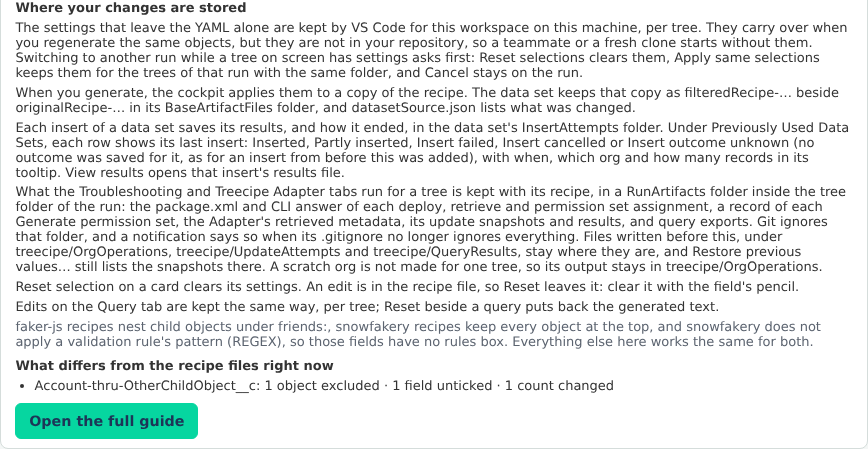
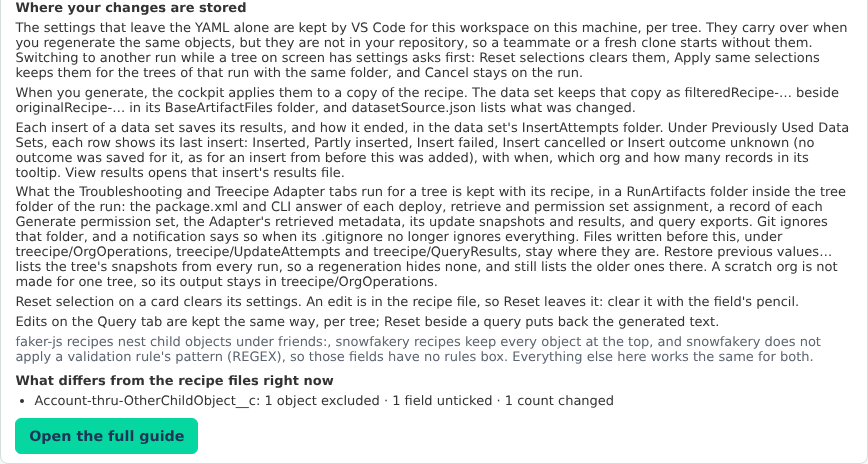
Address #475 review: restore lists snapshots from every run, cleanups
- Restore previous values… lists the tree folder's RunArtifacts/UpdateAttempts
  in every run (the run on screen first) before the pre-#470 folder, so an
  update made before a regeneration can still be restored
  (resolveTreeSnapshotLocations; listSnapshots/resolveSnapshotFilePath take
  a list of locations).
- Drop the dead ORG_OPERATIONS_FOLDER_NAME import, put two doc comments back
  above the methods they describe, and reuse RecipeCockpitQuery's
  buildCompactTimestamp in Generate permission set's record.
- Help, guide, CHANGELOG and CLAUDE.md say so; guide picture re-taken.

Claude-Session: https://claude.ai/code/session_01QDhJJJP6dUrYTXkiW5cX3B

Changed region(s): [[0.0, 0.0, 0.9954, 0.9666], [0.1555, 0.9354, 0.2177, 0.9666]]

diff --git a/src/treecipe/src/RecipeCockpitService/RecipeCockpitService.ts b/src/treecipe/src/RecipeCockpitService/RecipeCockpitService.ts
@@ -91,7 +91,7 @@ import {
 } from './RecipeCockpitTreeHistory';
 import { SfdxProjectService } from '../SfdxProjectService/SfdxProjectService';
 import { RunFakerConfirmation } from '../ExtensionCommandService/RunFakerConfirmation';
-import { IScratchOrgAliasChoice, IScratchOrgPlan, ORG_OPERATIONS_FOLDER_NAME, SCRATCH_ORG_DEPLOY_MAX_BUFFER_BYTES, ScratchOrgService, ScratchOrgSetupOutcome, ScratchOrgSetupPhase } from '../ScratchOrgService/ScratchOrgService';
+import { IScratchOrgAliasChoice, IScratchOrgPlan, SCRATCH_ORG_DEPLOY_MAX_BUFFER_BYTES, ScratchOrgService, ScratchOrgSetupOutcome, ScratchOrgSetupPhase } from '../ScratchOrgService/ScratchOrgService';
 import { INotificationCommandAction, VSCodeWorkspaceService } from '../VSCodeWorkspace/VSCodeWorkspaceService';
 import {
     RECIPE_COCKPIT_QUERY_EXPORT_FORMATS,
@@ -612,7 +612,7 @@ export const RECIPE_COCKPIT_HELP_SECTIONS: readonly IRecipeCockpitHelpSection[] 
             'The settings that leave the YAML alone are kept by VS Code for this workspace on this machine, per tree. They carry over when you regenerate the same objects, but they are not in your repository, so a teammate or a fresh clone starts without them. Switching to another run while a tree on screen has settings asks first: Reset selections clears them, Apply same selections keeps them for the trees of that run with the same folder, and Cancel stays on the run.',
             'When you generate, the cockpit applies them to a copy of the recipe. The data set keeps that copy as filteredRecipe-… beside originalRecipe-… in its BaseArtifactFiles folder, and datasetSource.json lists what was changed.',
             'Each insert of a data set saves its results, and how it ended, in the data set\'s InsertAttempts folder. Under Previously Used Data Sets, each row shows its last insert: Inserted, Partly inserted, Insert failed, Insert cancelled or Insert outcome unknown (no outcome was saved for it, as for an insert from before this was added), with when, which org and how many records in its tooltip. View results opens that insert\'s results file.',
-            'What the Troubleshooting and Treecipe Adapter tabs run for a tree is kept with its recipe, in a RunArtifacts folder inside the tree folder of the run: the package.xml and CLI answer of each deploy, retrieve and permission set assignment, a record of each Generate permission set, the Adapter\'s retrieved metadata, its update snapshots and results, and query exports. Git ignores that folder, and a notification says so when its .gitignore no longer ignores everything. Files written before this, under treecipe/OrgOperations, treecipe/UpdateAttempts and treecipe/QueryResults, stay where they are, and Restore previous values… still lists the snapshots there. A scratch org is not made for one tree, so its output stays in treecipe/OrgOperations.',
+            'What the Troubleshooting and Treecipe Adapter tabs run for a tree is kept with its recipe, in a RunArtifacts folder inside the tree folder of the run: the package.xml and CLI answer of each deploy, retrieve and permission set assignment, a record of each Generate permission set, the Adapter\'s retrieved metadata, its update snapshots and results, and query exports. Git ignores that folder, and a notification says so when its .gitignore no longer ignores everything. Files written before this, under treecipe/OrgOperations, treecipe/UpdateAttempts and treecipe/QueryResults, stay where they are. Restore previous values… lists the tree\'s snapshots from every run, so a regeneration hides none, and still lists the older ones there. A scratch org is not made for one tree, so its output stays in treecipe/OrgOperations.',
             'Reset selection on a card clears its settings. An edit is in the recipe file, so Reset leaves it: clear it with the field\'s pencil.',
             'Edits on the Query tab are kept the same way, per tree; Reset beside a query puts back the generated text.'
         ]
@@ -9864,7 +9864,6 @@ export class RecipeCockpitService {
 
     }
 
-    // THE BACKEND A CARD'S RECIPE WAS WRITTEN FOR, FROM ITS PATH, OR UNDEFINED WHEN IT HAS NO SINGLE RECIPE OR THE PATH DOES NOT SAY
     /*
         Where a tree's run files go (#470): GeneratedRecipes/<run on screen>/<tree folder>/RunArtifacts.
         Undefined for a card with no folder, or one whose folder is not a real folder inside the
@@ -9883,6 +9882,24 @@ export class RecipeCockpitService {
 
     }
 
+    /*
+        Where a tree's update snapshots are listed from (#470): its RunArtifacts in the run on
+        screen first, then in every other run that has the tree's folder, newest first, so an
+        update made before a regeneration can still be restored from the run drawn now.
+    */
+    static resolveTreeSnapshotLocations(workspaceRoot: string,
+                                        recipeViewModel: Pick<IRecipeCockpitRecipeViewModel, 'selectedRunFolderName' | 'runs'>,
+                                        tree: Pick<IRecipeCockpitTreeViewModel, 'folderName'>): IRecipeCockpitRunArtifactsLocation[] {
+
+        const runFolderNames = [...new Set([recipeViewModel.selectedRunFolderName, ...recipeViewModel.runs.map(run => run.runFolderName)])];
+
+        return runFolderNames
+            .map(runFolderName => this.resolveTreeRunArtifactsLocation(workspaceRoot, { selectedRunFolderName: runFolderName }, tree))
+            .filter((location): location is IRecipeCockpitRunArtifactsLocation => location !== undefined);
+
+    }
+
+    // THE BACKEND A CARD'S RECIPE WAS WRITTEN FOR, FROM ITS PATH, OR UNDEFINED WHEN IT HAS NO SINGLE RECIPE OR THE PATH DOES NOT SAY
     private static readTreeFakerService(panelState: IRecipeCockpitPanelState, treeKey: string): 'faker-js' | 'snowfakery' | undefined {
 
         const recipeFilePath = panelState.treeHistoryTargets.runFakerRecipeFilePathsByTreeKey.get(treeKey);
@@ -11915,11 +11932,11 @@ export class RecipeCockpitService {
             return;
         }
 
-        const runArtifactsLocation = this.resolveTreeRunArtifactsLocation(panelState.workspaceRoot, recipeDataMessage.recipe, tree);
-        const snapshotList = RecipeCockpitRecordUpdate.listSnapshots(panelState.workspaceRoot, tree.folderName, runArtifactsLocation);
+        const snapshotLocations = this.resolveTreeSnapshotLocations(panelState.workspaceRoot, recipeDataMessage.recipe, tree);
+        const snapshotList = RecipeCockpitRecordUpdate.listSnapshots(panelState.workspaceRoot, tree.folderName, snapshotLocations);
         const snapshotPathsByName = new Map<string, string>();
         snapshotList.snapshotFileNames.forEach(snapshotFileName => {
-            const snapshotFilePath = RecipeCockpitRecordUpdate.resolveSnapshotFilePath(panelState.workspaceRoot, tree.folderName as string, snapshotFileName, runArtifactsLocation);
+            const snapshotFilePath = RecipeCockpitRecordUpdate.resolveSnapshotFilePath(panelState.workspaceRoot, tree.folderName as string, snapshotFileName, snapshotLocations);
             if ( snapshotFilePath ) {
                 snapshotPathsByName.set(snapshotFileName, snapshotFilePath);
             }
@@ -12019,7 +12036,7 @@ export class RecipeCockpitService {
         // RESOLVED AGAIN, NOT TAKEN FROM THE LIST: IT MAY HAVE GONE, OR BECOME A LINK, SINCE IT WAS LISTED
         const listedSnapshotPath = panelState.restorableSnapshots.get(treeKey)?.get(snapshotName);
         const snapshotFilePath = RecipeCockpitRecordUpdate.resolveSnapshotFilePath(panelState.workspaceRoot, tree.folderName, snapshotName,
-                                                                                    this.resolveTreeRunArtifactsLocation(panelState.workspaceRoot, clickedRecipeDataMessage.recipe, tree));
+                                                                                    this.resolveTreeSnapshotLocations(panelState.workspaceRoot, clickedRecipeDataMessage.recipe, tree));
         if ( !listedSnapshotPath || snapshotFilePath !== listedSnapshotPath ) {
             return refuse(`Nothing was restored: ${snapshotName} is no longer where it was listed from.`);
         }
@@ -13828,11 +13845,6 @@ export class RecipeCockpitService {
     }
 
     /*
-        Every outcome but a success is a WARNING, and its only follow-up is the notification's own
-        "View output" button when the CLI left a result file. NOT AWAITED: the run ends, and gives the
-        panel its button back, without waiting for the reader to dismiss it.
-    */
-    /*
         A run file written into a tree's RunArtifacts folder whose .gitignore no longer ignores
         everything (#470) is said in the notification, which is then at least a warning, as the
         Query and Adapter flows say it.
@@ -13847,6 +13859,11 @@ export class RecipeCockpitService {
 
     }
 
+    /*
+        Every outcome but a success is a WARNING, and its only follow-up is the notification's own
+        "View output" button when the CLI left a result file. NOT AWAITED: the run ends, and gives the
+        panel its button back, without waiting for the reader to dismiss it.
+    */
     private static showPermissionSetNotification(notificationText: string, outputFilePath: string | undefined, workspaceRoot: string) {
 
         const actions = outputFilePath ? [RECIPE_COCKPIT_PERMISSION_SET_VIEW_OUTPUT_LABEL] : [];

diff --git a/src/treecipe/src/RecipeCockpitService/tests/RecipeCockpitUpdaterRestore.test.ts b/src/treecipe/src/RecipeCockpitService/tests/RecipeCockpitUpdaterRestore.test.ts
@@ -217,12 +217,12 @@ describe('RecipeCockpitService, the Treecipe Adapter\'s restore (#419)', () => {
             fs.writeFileSync(path.join(newFolderPath, '20261023-100000-before.json'), '{}');
             fs.writeFileSync(path.join(newFolderPath, '20261024-090000-before.json'), '{}');
 
-            expect(RecipeCockpitRecordUpdate.listSnapshots(temporaryRoot, ACCOUNT_TREE_KEY, location)).toEqual({
+            expect(RecipeCockpitRecordUpdate.listSnapshots(temporaryRoot, ACCOUNT_TREE_KEY, [location])).toEqual({
                 snapshotFileNames: ['20261024-090000-before.json', '20261023-100000-before.json', '20261022-090000-before.json'],
                 hiddenSnapshotCount: 0
             });
-            expect(RecipeCockpitRecordUpdate.resolveSnapshotFilePath(temporaryRoot, ACCOUNT_TREE_KEY, '20261024-090000-before.json', location)).toBe(path.join(newFolderPath, '20261024-090000-before.json'));
-            expect(RecipeCockpitRecordUpdate.resolveSnapshotFilePath(temporaryRoot, ACCOUNT_TREE_KEY, '20261022-090000-before.json', location)).toBe(path.join(treeFolderPath, '20261022-090000-before.json'));
+            expect(RecipeCockpitRecordUpdate.resolveSnapshotFilePath(temporaryRoot, ACCOUNT_TREE_KEY, '20261024-090000-before.json', [location])).toBe(path.join(newFolderPath, '20261024-090000-before.json'));
+            expect(RecipeCockpitRecordUpdate.resolveSnapshotFilePath(temporaryRoot, ACCOUNT_TREE_KEY, '20261022-090000-before.json', [location])).toBe(path.join(treeFolderPath, '20261022-090000-before.json'));
             // WITHOUT THE LOCATION ONLY THE OLD FOLDER IS READ
             expect(RecipeCockpitRecordUpdate.listSnapshots(temporaryRoot, ACCOUNT_TREE_KEY).snapshotFileNames).toEqual(['20261024-090000-before.json', '20261022-090000-before.json']);
 
@@ -234,7 +234,7 @@ describe('RecipeCockpitService, the Treecipe Adapter\'s restore (#419)', () => {
                 }
                 return (realReaddirSync as any)(folderPath, options);
             }) as any);
-            expect(RecipeCockpitRecordUpdate.listSnapshots(temporaryRoot, ACCOUNT_TREE_KEY, location).snapshotFileNames).toEqual(['20261024-090000-before.json', '20261022-090000-before.json']);
+            expect(RecipeCockpitRecordUpdate.listSnapshots(temporaryRoot, ACCOUNT_TREE_KEY, [location]).snapshotFileNames).toEqual(['20261024-090000-before.json', '20261022-090000-before.json']);
             readdirSpy.mockRestore();
 
             // A RunArtifacts/UpdateAttempts THAT IS A LINK IS NOT READ
@@ -243,11 +243,35 @@ describe('RecipeCockpitService, the Treecipe Adapter\'s restore (#419)', () => {
             try {
                 fs.writeFileSync(path.join(outsideFolderPath, '20261025-090000-before.json'), '{}');
                 fs.symlinkSync(outsideFolderPath, newFolderPath);
-                expect(RecipeCockpitRecordUpdate.listSnapshots(temporaryRoot, ACCOUNT_TREE_KEY, location).snapshotFileNames).toEqual(['20261024-090000-before.json', '20261022-090000-before.json']);
-                expect(RecipeCockpitRecordUpdate.resolveSnapshotFilePath(temporaryRoot, ACCOUNT_TREE_KEY, '20261025-090000-before.json', location)).toBeUndefined();
+                expect(RecipeCockpitRecordUpdate.listSnapshots(temporaryRoot, ACCOUNT_TREE_KEY, [location]).snapshotFileNames).toEqual(['20261024-090000-before.json', '20261022-090000-before.json']);
+                expect(RecipeCockpitRecordUpdate.resolveSnapshotFilePath(temporaryRoot, ACCOUNT_TREE_KEY, '20261025-090000-before.json', [location])).toBeUndefined();
             } finally {
                 fs.rmSync(outsideFolderPath, { recursive: true, force: true });
             }
+
+        });
+
+        it('lists the snapshots of the tree\'s folder in every run, the run on screen first, so a regeneration does not hide an update\'s snapshot', () => {
+
+            const currentLocation = makeTreeRunArtifactsLocation(temporaryRoot, 'recipe-2026-09-20T10-00-00', ACCOUNT_TREE_KEY);
+            const earlierLocation = makeTreeRunArtifactsLocation(temporaryRoot, 'recipe-2026-09-01T00-00-00', ACCOUNT_TREE_KEY);
+            [[currentLocation, '20261023-100000-before.json'], [earlierLocation, '20261024-100000-before.json'], [earlierLocation, '20261023-100000-before.json']].forEach(([location, fileName]: any) => {
+                fs.mkdirSync(path.join(location.folderPath, RECIPE_COCKPIT_UPDATE_ATTEMPTS_FOLDER_NAME), { recursive: true });
+                fs.writeFileSync(path.join(location.folderPath, RECIPE_COCKPIT_UPDATE_ATTEMPTS_FOLDER_NAME, fileName), '{}');
+            });
+
+            const locations = RecipeCockpitService.resolveTreeSnapshotLocations(temporaryRoot, {
+                selectedRunFolderName: 'recipe-2026-09-20T10-00-00',
+                runs: [{ runFolderName: 'recipe-2026-09-20T10-00-00', label: '' }, { runFolderName: 'recipe-2026-09-01T00-00-00', label: '' }, { runFolderName: 'recipe-with-no-such-tree', label: '' }]
+            }, { folderName: ACCOUNT_TREE_KEY });
+
+            expect(locations).toEqual([currentLocation, earlierLocation]);
+            expect(RecipeCockpitRecordUpdate.listSnapshots(temporaryRoot, ACCOUNT_TREE_KEY, locations).snapshotFileNames).toEqual(['20261024-100000-before.json', '20261023-100000-before.json']);
+            // A NAME TWO RUNS HOLD IS THE RUN ON SCREEN'S
+            expect(RecipeCockpitRecordUpdate.resolveSnapshotFilePath(temporaryRoot, ACCOUNT_TREE_KEY, '20261023-100000-before.json', locations))
+                .toBe(path.join(currentLocation.folderPath, RECIPE_COCKPIT_UPDATE_ATTEMPTS_FOLDER_NAME, '20261023-100000-before.json'));
+            expect(RecipeCockpitRecordUpdate.resolveSnapshotFilePath(temporaryRoot, ACCOUNT_TREE_KEY, '20261024-100000-before.json', locations))
+                .toBe(path.join(earlierLocation.folderPath, RECIPE_COCKPIT_UPDATE_ATTEMPTS_FOLDER_NAME, '20261024-100000-before.json'));
 
         });
 

diff --git a/src/treecipe/src/RecipeCockpitService/RecipeCockpitRecordUpdate.ts b/src/treecipe/src/RecipeCockpitService/RecipeCockpitRecordUpdate.ts
@@ -330,16 +330,18 @@ export class RecipeCockpitRecordUpdate {
 
     /*
         The tree's snapshots (#419), newest first: the files whose names writeSnapshot writes, each a
-        file and never a link, in the tree's RunArtifacts/UpdateAttempts (#470) and in the folder
-        snapshots were written to before it, treecipe/UpdateAttempts/<tree folder>/. A name both
-        hold is listed once, and resolveSnapshotFilePath answers the newer folder's file. A folder
-        name that is not plain, or a folder outside the workspace, lists nothing.
+        file and never a link, in the RunArtifacts/UpdateAttempts of each location given (#470: the
+        tree folder of every run, the run on screen first, so a regeneration does not hide an
+        update's snapshot) and in the folder snapshots were written to before it,
+        treecipe/UpdateAttempts/<tree folder>/. A name more than one holds is listed once, and
+        resolveSnapshotFilePath answers the first folder's file. A folder name that is not plain,
+        or a folder outside the workspace, lists nothing.
     */
-    static listSnapshots(workspaceRoot: string, treeFolderName: string, runArtifactsLocation?: IRecipeCockpitRunArtifactsLocation): IUpdateSnapshotList {
+    static listSnapshots(workspaceRoot: string, treeFolderName: string, runArtifactsLocations: readonly IRecipeCockpitRunArtifactsLocation[] = []): IUpdateSnapshotList {
 
         const snapshotsByFileName = new Map<string, { fileName: string; timestamp: string; attempt: number }>();
 
-        this.resolveSnapshotFolderPaths(workspaceRoot, treeFolderName, runArtifactsLocation).forEach(snapshotFolderPath => {
+        this.resolveSnapshotFolderPaths(workspaceRoot, treeFolderName, runArtifactsLocations).forEach(snapshotFolderPath => {
             let directoryEntries: fs.Dirent[];
             try {
                 directoryEntries = fs.readdirSync(snapshotFolderPath, { withFileTypes: true });
@@ -368,13 +370,13 @@ export class RecipeCockpitRecordUpdate {
     }
 
     // WHERE A LISTED SNAPSHOT IS, CHECKED AGAIN WHEN IT IS READ: A NAME writeSnapshot WRITES, A FILE AND NOT A LINK, INSIDE THE WORKSPACE
-    static resolveSnapshotFilePath(workspaceRoot: string, treeFolderName: string, snapshotFileName: string, runArtifactsLocation?: IRecipeCockpitRunArtifactsLocation): string | undefined {
+    static resolveSnapshotFilePath(workspaceRoot: string, treeFolderName: string, snapshotFileName: string, runArtifactsLocations: readonly IRecipeCockpitRunArtifactsLocation[] = []): string | undefined {
 
         if ( !SNAPSHOT_FILE_NAME_PATTERN.test(snapshotFileName) ) {
             return undefined;
         }
 
-        for ( const snapshotFolderPath of this.resolveSnapshotFolderPaths(workspaceRoot, treeFolderName, runArtifactsLocation) ) {
+        for ( const snapshotFolderPath of this.resolveSnapshotFolderPaths(workspaceRoot, treeFolderName, runArtifactsLocations) ) {
             const snapshotFilePath = path.join(snapshotFolderPath, snapshotFileName);
             try {
                 if ( !fs.lstatSync(snapshotFilePath).isFile() ) {
@@ -392,8 +394,8 @@ export class RecipeCockpitRecordUpdate {
 
     }
 
-    // THE TREE'S RunArtifacts/UpdateAttempts FIRST, THEN THE FOLDER USED BEFORE #470; ONLY FOLDERS THAT EXIST, ARE NOT LINKS AND ARE INSIDE THE WORKSPACE
-    private static resolveSnapshotFolderPaths(workspaceRoot: string, treeFolderName: string, runArtifactsLocation?: IRecipeCockpitRunArtifactsLocation): string[] {
+    // EACH LOCATION'S RunArtifacts/UpdateAttempts IN ORDER, THEN THE FOLDER USED BEFORE #470; ONLY FOLDERS THAT EXIST, ARE NOT LINKS AND ARE INSIDE THE WORKSPACE
+    private static resolveSnapshotFolderPaths(workspaceRoot: string, treeFolderName: string, runArtifactsLocations: readonly IRecipeCockpitRunArtifactsLocation[]): string[] {
 
         if ( !FOLDER_NAME_PATTERN.test(treeFolderName) || WINDOWS_RESERVED_FOLDER_NAME_PATTERN.test(treeFolderName) ) {
             return [];
@@ -401,7 +403,7 @@ export class RecipeCockpitRecordUpdate {
 
         const resolvedWorkspaceRoot = path.resolve(workspaceRoot);
         const candidateFolderPaths = [
-            ...( runArtifactsLocation ? [RecipeCockpitRunArtifacts.buildKindFolderPath(runArtifactsLocation, 'UpdateAttempts')] : [] ),
+            ...runArtifactsLocations.map(runArtifactsLocation => RecipeCockpitRunArtifacts.buildKindFolderPath(runArtifactsLocation, 'UpdateAttempts')),
             path.join(resolvedWorkspaceRoot, 'treecipe', RECIPE_COCKPIT_UPDATE_ATTEMPTS_FOLDER_NAME, treeFolderName)
         ];
 

diff --git a/src/treecipe/src/RecipeCockpitService/RecipeCockpitPermissionSetGenerate.ts b/src/treecipe/src/RecipeCockpitService/RecipeCockpitPermissionSetGenerate.ts
@@ -5,6 +5,7 @@ import * as xml2js from 'xml2js';
 import { SalesforceApiName } from '../RecipeService/SalesforceApiName';
 import { ISfdxPackageDirectory, SfdxProjectService } from '../SfdxProjectService/SfdxProjectService';
 import { PERMISSION_SET_FILE_SUFFIX } from './RecipeCockpitPermissionSetAssign';
+import { RecipeCockpitQuery } from './RecipeCockpitQuery';
 import { IRecipeCockpitRunArtifactsLocation, RecipeCockpitRunArtifacts } from './RecipeCockpitRunArtifacts';
 
 /*
@@ -95,14 +96,6 @@ const PERMISSION_SET_GENERATE_RESULT_FILE_ATTEMPTS = 100;
 
 export class RecipeCockpitPermissionSetGenerate {
 
-    static buildCompactTimestamp(date: Date): string {
-
-        const twoDigits = (value: number) => String(value).padStart(2, '0');
-
-        return `${date.getFullYear()}${twoDigits(date.getMonth() + 1)}${twoDigits(date.getDate())}-${twoDigits(date.getHours())}${twoDigits(date.getMinutes())}${twoDigits(date.getSeconds())}`;
-
-    }
-
     /*
         <tree folder>/RunArtifacts/PermissionSets/<yyyyMMdd-HHmmss>-permission-set-generate.json:
         what was written, so the tree's run files say it. "wx", the first free of <name>, <name>-2,
@@ -118,7 +111,7 @@ export class RecipeCockpitPermissionSetGenerate {
         }
 
         return RecipeCockpitRunArtifacts.writeNewFile(
-            path.join(resultFolderPath, `${this.buildCompactTimestamp(date)}-${result.operation}.json`),
+            path.join(resultFolderPath, `${RecipeCockpitQuery.buildCompactTimestamp(date)}-${result.operation}.json`),
             `${JSON.stringify(result, null, 2)}\n`,
             '.json',
             PERMISSION_SET_GENERATE_RESULT_FILE_ATTEMPTS

diff --git a/CLAUDE.md b/CLAUDE.md
@@ -329,7 +329,7 @@ User runs command (Cmd+Shift+P)
 - **An update that lands leaves an adapted DATA SET and an adapted RECIPE, and the recipe is a SIDE FILE** (#448, its update half; the child insert of #447's E2 is not built, so `addedObjectApiNames` and `insertedRecordIdsByObject` are always empty) — after `sendUpdaterRequests`, `writeAdaptedRunAfterUpdate` writes nothing when no record was updated or `putBack` is set; otherwise `RecipeCockpitAdaptedDataset.writeAdaptedRun` writes `FakeDataSets/<tree folder>-adapted-<yyyyMMdd-HHmmss>` (UTC, first free `-<n>`) with EVERY loaded record, the org-saved ones carrying their new values, as Collections API files whose `referenceId` ends in `__<Id>` (so the insert's whole-string nickname swap re-points a lookup to a record of the copy) and `datasetSource.json` of `origin: 'adapt'` with an `adaptation` (parent, its WHERE, org username, updated fields with `isOrgOnly`, added objects, inserted Ids, `adaptedRecipeFileName`), type-checked whole by `DatasetSourceService.isAdaptation` (anything out of shape, or an `adaptation` on another origin, is `unreadable`). `parseDatasetFolderName` gives an adapted name's timestamp in the `YYYY-MM-DDTHH-MM-SS` form and `fakerService: null`, so `groupTreeHistories` reads the backend from the source and sets `isAdapted` (the row's `adapted` label). The held records carry `parentObjectApiName` and `whereClausesByObjectApiName`, the held values `adaptedRecipeFields`: each field's scalar as `toFixedValueScalar` writes it and `isRecipeValue` for a value that came from the recipe (`recipe`, `recipeEdit`, `recipeFixed`). `RecipeCockpitRecipeWriter.buildAdaptedRecipe` marks `# ADAPTED <yyyy-MM-dd> -- <org label>` (`buildAdaptedComment` keeps `[A-Za-z0-9._@+-]`) on every occurrence: a recipe value whose line closes its value or opens a block scalar keeps its lines and is marked at the end of the field line; anything else becomes one line of its scalar; an org-only field is inserted at the end of each fields: block; the result is scanned back. The file `<recipe>-adapted-<ts>.yml` is written `wx` beside the recipe, which is only read, and `isAdaptedRecipeFileName` keeps it out of `collectRecipeFilePaths` and `findTreeRecipeFilePath`, so it never becomes the card's recipe or doubles its objects; Run Faker by Recipe's picker still lists it. The update's ONE notification adds **Open adapted recipe** and **Open data set**, and the data set is added in place (#226)
 - **"Remove TODO" takes ONE TODO comment out of the recipe FILE, and "Restore" puts back exactly that line** (#391) — the TODO's sub-tab holds an **Open** list (the TODOs `scanRecipeObjects` still finds) and a **Removed** one (what `<recipe>.removedTodos.json` holds that is not back in the recipe), each with its own search (`troubleshooting.todos` and `troubleshooting.todosRemoved`), the place's optional `todosView` (only `'removed'`) and `removedTodosSearchText`. Each row's first line is the field (bold, accent; `on the object` muted), its `↗ yml` link and its button; the text is under them. `RecipeCockpitRecipeWriter.removeTodoComment` deletes a whole-line TODO (the line before a last line without a newline gives up its ending instead) or cuts a trailing one off its value (`trimEnd`), refuses a line whose TODO text is not the one the panel drew, and re-scans: `describeTodoStructure` must read as one TODO fewer on the same occurrence (and, for a whole line, one line fewer on its field), else `todo-structure-changed`. It records the owner by object, nickname (only when the occurrence's is distinct; an object written twice without one is `indistinct-todo-occurrence`) and field, and for a whole line `previousLine` (the nearest line above that is not a whole TODO line), `previousTodoLines`, `nextTodoLines` and `lineEnding`; `restoreTodoComment(text, removed, otherRemoved)` finds the anchor in the owner's span (at its old place, else the only match), passes TODO lines until one the records say was BELOW it (whichever of two side-by-side TODOs was removed first saw the other, so the pair is ordered whatever order they are restored in), and re-scans the same way. `findTodoRemoveLock` is the one rule for what stays: `field-value` (the TODO is a field line's whole value, which would load as null), `record-type-options` (`### TODO: -- RecordType Options --`, read by `hasRecordTypeSections`, record type selection detection and Run Faker's pre-3.29.1 check), `commented-out-marker` and `scalar-content` (a continuation line of a field whose value is a `|`/`>` block or an unclosed quote, `isFieldValueClosedOnFirstLine`, where `#` is value text; `restoreTodoComment` refuses to put a line there too, since a crafted sidecar could otherwise hide a `${{ }}` in a value). The load hands it the field its pass is on and a `Set` of marker lines, so it never searches an occurrence's fields per TODO; `parseRecipeSource` sets `removeLock` (plus `indistinct-occurrence`) on a TODO ONLY when one holds, so a recipe without one posts as before. The panel posts `removeTodo {treeKey, lineNumber}` and `restoreTodo {treeKey, removalKey}`, matched against `removableTodoKeys` / `restorableTodoKeys` in `IRecipeCockpitTreeHistoryAllowLists` (built by `collectTreeHistoryAllowLists` with the cards' recipe paths: only a TODO of the card's own recipe file, no lock); the text is the host's (`listTreeTodos`/`readTodoText`, the panel's `readFieldTodoText` copied) and a `removalKey` is an index into the host-only `removedTodosByTreeKey`. Both run in `runRecipeLookupWrite` (the one recipe write lock, its new `reloadFocus` onto `troubleshooting`/`todos`/`todosView`), ask through `confirmInPanel`, plan again after the answer, write the sidecar FIRST through `writeRecipeWithSidecarFile` (put back when the recipe write throws; never through a link, outside the workspace or over a file that does not parse), and every refusal is a warning. Most generated TODOs are locked; Remove is for a validation rule not applied, a record type block note and the reader's own
 - **A data set row's insert status comes from the insert's own SUMMARY, never from its results file** (#469) — `upsertDataSetToSelectedOrg` writes `insertAttemptSummary-<ts>.json` (`DatasetInsertAttemptService.buildSummary`/`writeSummary`, `wx`, never throws) beside `insertAttemptResults-<ts>.json` when every insert ends, with the org from `IDataSetInsertOptions.orgUsername`/`orgAlias` (both callers pass them). The results file cannot say how an insert ended: a cancel and an all-or-none rollback leave the deleted records under `SuccessResults`. `readLatestAttempt` takes the newest `insertAttempt-<ts>` folder (timestamps sort as text), follows no link, parses the summary as untrusted (`parseSummary`: every field, else undefined), and `readStatus` reads cancelled → `cancelled`, rolled back → `failed`, stopped or any failure → `partial` if records were kept else `failed`, else `succeeded`. An insert that throws (a failed rollback) still writes one, `isInterrupted`, which reads `partial`/`failed`, never finished. No summary is `unknown` with `isOutcomeUnrecorded`; a summary out of shape is `unknown`; neither is ever counted from the results file (it cannot say what a rollback deleted, and reading it per data set cost ~0.7 s per 500). The summary is read through one `O_NOFOLLOW` handle, 64 KB at most, and an org name with a control or bidi character is refused. `RecipeCockpitTreeHistory.readLastInserts` feeds `groupTreeHistories` (the one placing rule, so a reload and `buildAddedDataset` agree) and sets `lastInsert` on a row ONLY when there is an attempt, so a data set never inserted posts as before; the results path is kept host-only in `insertResultsFilePathsByDatasetFolderName` only while contained. The panel draws `treeDatasetInsertStatus` (an `aria-hidden` emoji from `RECIPE_COCKPIT_DATASET_INSERT_STATUS_DISPLAY`, the label in words, a tooltip of when/where/how many, chip colours the contrast test holds) and **View results** (`viewDatasetInsertResults {datasetFolderName}`, matched against `viewableInsertResultsDatasetFolderNames` in `IRecipeCockpitTreeHistoryAllowLists`, opened through `VSCodeWorkspaceService.openWorkspaceResultFile`, which re-checks existence and containment). A row's own Insert… is followed by `postDatasetLastInsert`, which re-reads that data set and posts `datasetLastInsert` in place: the name leaves the ACTIVE allow-list and is added to a cloned PENDING one, promoted by the existing `partialRendered`/`datasetUpdateSequence` ack
-- **A tree's run files live with its recipe, in `GeneratedRecipes/<run>/<tree folder>/RunArtifacts/`, and nothing reads them as a recipe** (#470, a decision on the issue: under the RUN folder, so the files of one run stay with the recipe they were made with and a regeneration starts a new folder, the way a data set records its run) — `RecipeCockpitRunArtifacts` (no vscode) is the one rule: `resolveTreeLocation` (run and tree plain names, both real folders and not links, inside the workspace) and `RecipeCockpitService.resolveTreeRunArtifactsLocation` (the run ON SCREEN and the card's folder; a card with no folder gets none and its writer writes nothing). The tree-scoped writers take that location, never a workspace root: the Troubleshooting deploys and their package.xml, the four retrieves, the permission set assign (`RunArtifacts/OrgOperations/<username>/`, through `ScratchOrgService.writeOrgOperationResult`'s optional location), Generate permission set's record (`RunArtifacts/PermissionSets/<ts>-permission-set-generate.json`, `RecipeCockpitPermissionSetGenerate.writeGenerateResult`; a failed write changes nothing it reports), the Adapter's retrieve staging (`RunArtifacts/OrgOperations/<username>/<ts>-adapter-retrieve[-n]`, still under `treecipe/` so `toOutputDirectoryArgument` accepts it), update snapshots and results (`RunArtifacts/UpdateAttempts/`) and query exports (`RunArtifacts/QueryResults/`). Runs tied to no tree stay in `treecipe/OrgOperations` (scratch org creation; org open writes nothing), and files written before #470 stay where they were: no migration. `makeFolder` makes each segment from the tree folder down one at a time (`mkdirSync` without `recursive`), refuses one that is there and not a real folder (a link to a folder INSIDE the workspace included), writes `RunArtifacts/.gitignore` of `*` with `wx`, and holds the path to the workspace before and after; every file is `wx` with a `-<n>` suffix (`writeNewFile`). `.gitignore` is read back, never trusted (`isFolderWhollyGitIgnored`, the rule the Query tab used): a deploy, retrieve, assign, update, restore, export or generate whose file sits under a RunArtifacts folder that does not ignore everything adds `RECIPE_COCKPIT_RUN_ARTIFACTS_NOT_GIT_IGNORED_NOTE` (`isRunFileExposedToGit`, `withRunArtifactsGitIgnoreNote`) and is at least a warning. **Restore previous values…** lists both folders (`listSnapshots`/`resolveSnapshotFilePath` with the location: RunArtifacts first, then `treecipe/UpdateAttempts/<folder>/`; a name both hold is listed once and resolves to RunArtifacts). Recipe discovery never reads the folder: `collectRecipeFilePaths` reads two levels and `findTreeRecipeFilePath` the tree folder's own files, so neither reaches it; Run Faker by Recipe's picker skips a directory named `RunArtifacts` (`isRunArtifactsFolderName`), and `findRecipeFilePathRefusal` refuses a recipe path with that segment under GeneratedRecipes. A test helper, `tests/RecipeCockpitRunArtifactsFixture.ts`, builds a location for a suite
+- **A tree's run files live with its recipe, in `GeneratedRecipes/<run>/<tree folder>/RunArtifacts/`, and nothing reads them as a recipe** (#470, a decision on the issue: under the RUN folder, so the files of one run stay with the recipe they were made with and a regeneration starts a new folder, the way a data set records its run) — `RecipeCockpitRunArtifacts` (no vscode) is the one rule: `resolveTreeLocation` (run and tree plain names, both real folders and not links, inside the workspace) and `RecipeCockpitService.resolveTreeRunArtifactsLocation` (the run ON SCREEN and the card's folder; a card with no folder gets none and its writer writes nothing). The tree-scoped writers take that location, never a workspace root: the Troubleshooting deploys and their package.xml, the four retrieves, the permission set assign (`RunArtifacts/OrgOperations/<username>/`, through `ScratchOrgService.writeOrgOperationResult`'s optional location), Generate permission set's record (`RunArtifacts/PermissionSets/<ts>-permission-set-generate.json`, `RecipeCockpitPermissionSetGenerate.writeGenerateResult`; a failed write changes nothing it reports), the Adapter's retrieve staging (`RunArtifacts/OrgOperations/<username>/<ts>-adapter-retrieve[-n]`, still under `treecipe/` so `toOutputDirectoryArgument` accepts it), update snapshots and results (`RunArtifacts/UpdateAttempts/`) and query exports (`RunArtifacts/QueryResults/`). Runs tied to no tree stay in `treecipe/OrgOperations` (scratch org creation; org open writes nothing), and files written before #470 stay where they were: no migration. `makeFolder` makes each segment from the tree folder down one at a time (`mkdirSync` without `recursive`), refuses one that is there and not a real folder (a link to a folder INSIDE the workspace included), writes `RunArtifacts/.gitignore` of `*` with `wx`, and holds the path to the workspace before and after; every file is `wx` with a `-<n>` suffix (`writeNewFile`). `.gitignore` is read back, never trusted (`isFolderWhollyGitIgnored`, the rule the Query tab used): a deploy, retrieve, assign, update, restore, export or generate whose file sits under a RunArtifacts folder that does not ignore everything adds `RECIPE_COCKPIT_RUN_ARTIFACTS_NOT_GIT_IGNORED_NOTE` (`isRunFileExposedToGit`, `withRunArtifactsGitIgnoreNote`) and is at least a warning. **Restore previous values…** lists every run's folder (`resolveTreeSnapshotLocations`: the tree folder's RunArtifacts in the run on screen, then every other run, so a regeneration does not hide a snapshot) and then `treecipe/UpdateAttempts/<folder>/` (`listSnapshots`/`resolveSnapshotFilePath`; a name more than one holds is listed once and resolves to the first). Recipe discovery never reads the folder: `collectRecipeFilePaths` reads two levels and `findTreeRecipeFilePath` the tree folder's own files, so neither reaches it; Run Faker by Recipe's picker skips a directory named `RunArtifacts` (`isRunArtifactsFolderName`), and `findRecipeFilePathRefusal` refuses a recipe path with that segment under GeneratedRecipes. A test helper, `tests/RecipeCockpitRunArtifactsFixture.ts`, builds a location for a suite
 - **A data set records its source by NAME, and the reader never trusts the names** — Run Faker by Recipe writes `BaseArtifactFiles/datasetSource.json` naming the recipe run folder, tree folder and recipe file, taken from the recipe's position under `GeneratedRecipes/` (`null` run and tree for a recipe directly under it). It is a file in the user's workspace, so `DatasetSourceService.readDatasetSource` type-checks every field (`unreadable` otherwise), refuses any name that is empty, carries a separator or is a `..` (or `.`) segment — `my..recipe.yml` and `team..v2` are names, not paths (#185) — and links only a name that matches a run and tree folder on disk (`unknown` otherwise). It never throws: a data set the reader cannot place is a status, not a failure of whatever lists it. A data set from before the file is linked only when its single recipe copy and single wrapper copy agree on a run that is still there — anything ambiguous is `unknown` rather than a guess. Its `origin` is `runFaker` or `createInOrg` (#180), and `orgUsername`, `createdObjectApiName` and `createdRecordIds` are present exactly when it is `createInOrg`. The data set folder takes the first free of `<name>`, `<name>-2`, … with `mkdirSync` as the existence check, and every reader of data set folder names must accept that suffix. The service imports only `fs` and `path`, so the cockpit and any non-vscode tooling can read it
 - **A tree card's history is keyed by the tree's FOLDER NAME, and the panel posts only NAMES** — `history.versions` is every run whose folder carries the tree's folder (`DatasetSourceService.findKnownRecipeRuns`), newest first by timestamp SUFFIX. There is no tab listing them since #265: they are what a data set's row names its version by ("current version", "version of <date>"), so run discovery stays. Previously Used Data Sets lists every data set `linked` to that folder, or `unknown` with a `treeFolderNameHint` ("version unknown"), and everything else is ONE unmatched count in a notice, never guessed onto a card. Runs and data sets are discovered when the model is built (directory listings and the small `datasetSource.json` files); no run's WRAPPER is opened for the history, and a legacy data set's Collections API files are read only when the reader asks (the row's `Show record counts`). A `focusTree` rides on the POSTED copy of a reload's model, never the stored one, or every reveal would replay it. Open, Insert and legacy counts each have their own pending/active allow-list (`IRecipeCockpitTreeHistoryAllowLists`, built from the rendered histories, promoted on `rendered`, emptied on `ready`, a new post and a failure to draw), and each posted name resolves through `IRecipeCockpitTreeHistoryTargets`, a host-only map built with the model — the posted model names no path. Every such path passes `isPathContainedInWorkspace` when the map is built AND, with an existence check, when it is used; a data set gone by then reloads the run with a `focusTree` that re-opens the reader's card and tab. `Insert…` executes `treecipe.insertDataSetBySelectedDirectory` with the folder: its handler takes an optional path, refuses one that is not an existing directory inside the workspace (the command is callable by id), and its registration RETURNS the promise. The card's insert resolves its recipe the same way: the panel posts only the tree key, and `runFakerRecipeFilePathsByTreeKey` (host-only, the current run's single contained `.yml`) resolves it. `treecipe.runFakerByRecipe` takes that path and RETURNS its promise; with a path its handler skips the picker but refuses a non-`.yml` file, one outside `GeneratedRecipes/` or the workspace, a missing file, and a recipe for the other backend (`VSCodeWorkspaceService.readRecipeFakerService`, held by a test to the picker's own walk). The command RESOLVES to the data set folder it wrote (`undefined` for none), and the insert adds that data set in place with `datasetAdded` (#226). The card's own generate-only path is GONE (#375)
 - **The Treecipes section draws ONE card, chosen in a dropdown, under one search across every card** (#374) — every card is still built into the document by `renderTree` (class `treeCard hidden`) and only the dropdown's choice (`selectedTreeKey`) is shown, by `applyTreePicker`, so a card keeps its tab, searches and opened objects while another is on screen, and `datasetAdded`, `treePreferences` and `objectSelection` reach a card whether or not it is drawn. A card's body is built the first time it is chosen (`setTreeExpanded`), and the draw itself posts nothing; a READER's pick or result click on a card's Treecipe tab posts `loadDataOrgs`, as opening a card did. The header neither folds nor draws a `▸`. Under the dropdown, `treePickerObjects` (#385) names the shown card's objects in insert order, each once (no iteration), an excluded one marked `(excluded)`/`(auto-excluded)` in text, redrawn by `drawTreePickerObjects` only when the card on screen changes or its `objectSelection` does, hidden with no card. The dropdown (`treePickerSelect`, option values are indexes into `treePickerTreeStates`, never names) lists the cards Favorites only leaves, in `RecipeFiles` order, narrowed to the section search's matches; the card on screen stays listed first with `RECIPE_COCKPIT_TREECIPES_SEARCH_NO_MATCH_OPTION_SUFFIX` when it does not match, and no match disables the dropdown. `focusTree` goes through `chooseTree` before it applies. The section search (`treecipesSearch`, its own classes so a tab's `tabSearchInput`/`tabMatchCount` lookups never find it, with the #373 magnifier) matches card titles and folders, object api names, field api names and labels (`Object.field` only for a query with a dot) and record type developer names — the model carries no record type label — from an index lowercased ONCE per model on the first query (`buildTreecipesSearchIndex`, dropped on a name or star change), draws at most `RECIPE_COCKPIT_TREECIPES_SEARCH_RESULT_LIMIT` `link` buttons grouped by card and kind with one `N more` line, all through `textContent`; a click (`openTreecipesResult`) chooses the card on its Treecipe tab and opens one object, scrolls to a field's row (clearing the Treecipe tab's search and checks when they hide it) or opens the Record types section through `applyTreeFocus`. The place's optional `selectedTreeKey` (written only when not the first card) and `treecipesSearchText` are read by `applyPlaceBeforeRender` and `normalizePanelPlace`, so the place version did not change; a saved per-card `isExpanded` is ignored. Measured at 12,000 fields: 8–9 ms for the first keystroke, 1.4 ms after (CHANGELOG 3.113.0)

diff --git a/CHANGELOG.md b/CHANGELOG.md
@@ -8,7 +8,7 @@
 - **Not tied to a tree, not moved.** Scratch org creation still writes to `treecipe/OrgOperations/<alias or username>/`, and Open in browser writes nothing. Files written before this release stay where they are.
 - **Never committed by default.** `RunArtifacts/` gets a `.gitignore` of `*`, written `wx` and read back on every run, never trusted. A deploy, retrieve, assignment, update, restore, export or Generate permission set whose file sits in a `RunArtifacts` folder that no longer ignores everything says so in its notification, as the Query and Adapter flows did.
 - **Contained, no link followed.** The new vscode-free `RecipeCockpitRunArtifacts` resolves the location (the run and tree are plain names and real folders, not links, inside the workspace) and makes every folder from the tree folder down one segment at a time, refusing any segment that is a link, even to a folder inside the workspace, then holds the path to the workspace again once the folders exist. Every file is written `wx`, with `-2`, `-3`, … for a same-second clash. A card with no folder, or one whose folder is gone, writes nothing, and its notification says so.
-- **Restore still finds older snapshots.** **Restore previous values…** lists the tree's `RunArtifacts/UpdateAttempts` and the old `treecipe/UpdateAttempts/<tree folder>/` together, newest first; a name both hold is listed once and opened from `RunArtifacts`. A restore's own snapshot goes to the new folder.
+- **Restore still finds every snapshot.** **Restore previous values…** lists the tree folder's `RunArtifacts/UpdateAttempts` in every run (the run on screen first, so a regeneration does not hide an update's snapshot) and the old `treecipe/UpdateAttempts/<tree folder>/` together, newest first; a name more than one folder holds is listed once and opened from the first. A restore's own snapshot goes to the run on screen.
 - **Never a recipe or a tree.** Run Faker by Recipe's picker skips any `RunArtifacts` folder, and a recipe path through one is refused ("a run file … not a recipe"). The cockpit's recipe discovery (`collectRecipeFilePaths`, `findTreeRecipeFilePath`) never reached that depth, and a test now holds it to that.
 - **Buttons.** Each notification's **View output** / **Open file** opens the file at its new path, re-checked on the click as before.
 - **Help.** The ? help and `docs/RECIPE-COCKPIT-GUIDE.md` say where a tree's run files are kept, under **Where your changes are stored**, and the Query, Adapter and update notes name the new folders.

diff --git a/docs/RECIPE-COCKPIT-GUIDE.md b/docs/RECIPE-COCKPIT-GUIDE.md
@@ -101,7 +101,7 @@ Under **Previously Used Data Sets**, each row shows its last insert: ✅ **Inser
 **View results** opens that insert's results file.
 What the **Troubleshooting** and **Treecipe Adapter** tabs run for a tree is kept with its recipe, in `GeneratedRecipes/<run>/<tree folder>/RunArtifacts/`: the package.xml and CLI answer of each deploy, retrieve and permission set assignment (`OrgOperations/<username>/`), a record of each **Generate permission set…** (`PermissionSets/`), the Adapter's retrieved metadata (`OrgOperations/<username>/`), its update snapshots and results (`UpdateAttempts/`), and query exports (`QueryResults/`).
 Git ignores that folder through its own `.gitignore`, and a notification says so when that file no longer ignores everything.
-Files written before this, under `treecipe/OrgOperations`, `treecipe/UpdateAttempts` and `treecipe/QueryResults`, stay where they are, and **Restore previous values…** still lists the snapshots there.
+Files written before this, under `treecipe/OrgOperations`, `treecipe/UpdateAttempts` and `treecipe/QueryResults`, stay where they are. **Restore previous values…** lists the tree's snapshots from every run, so a regeneration hides none, and still lists the older ones there.
 A scratch org is not made for one tree, so its output stays in `treecipe/OrgOperations`.
 **Reset selection** on a card clears its settings. An edit is in the recipe file, so Reset leaves it: clear it with the field's pencil.
 Edits on the **Query** tab are kept the same way, per tree; **Reset** beside a query puts back the generated text.
